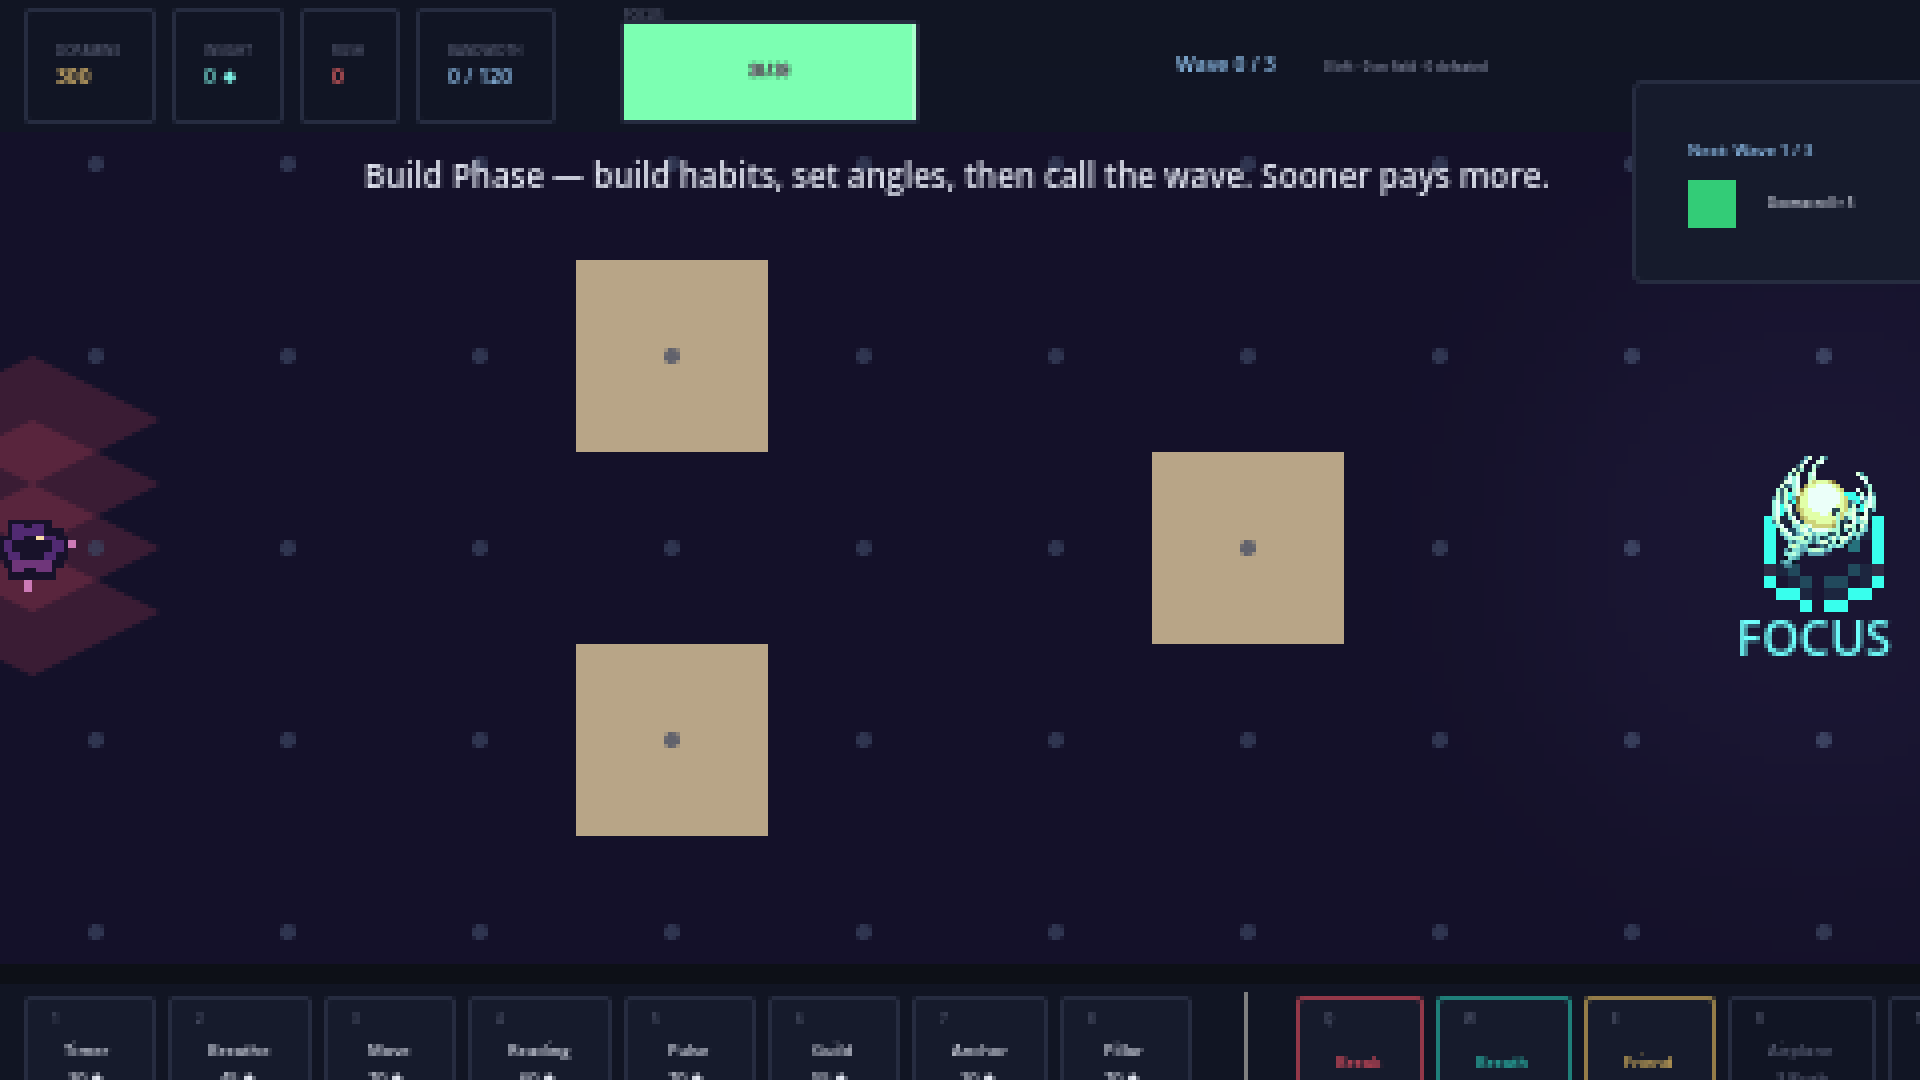
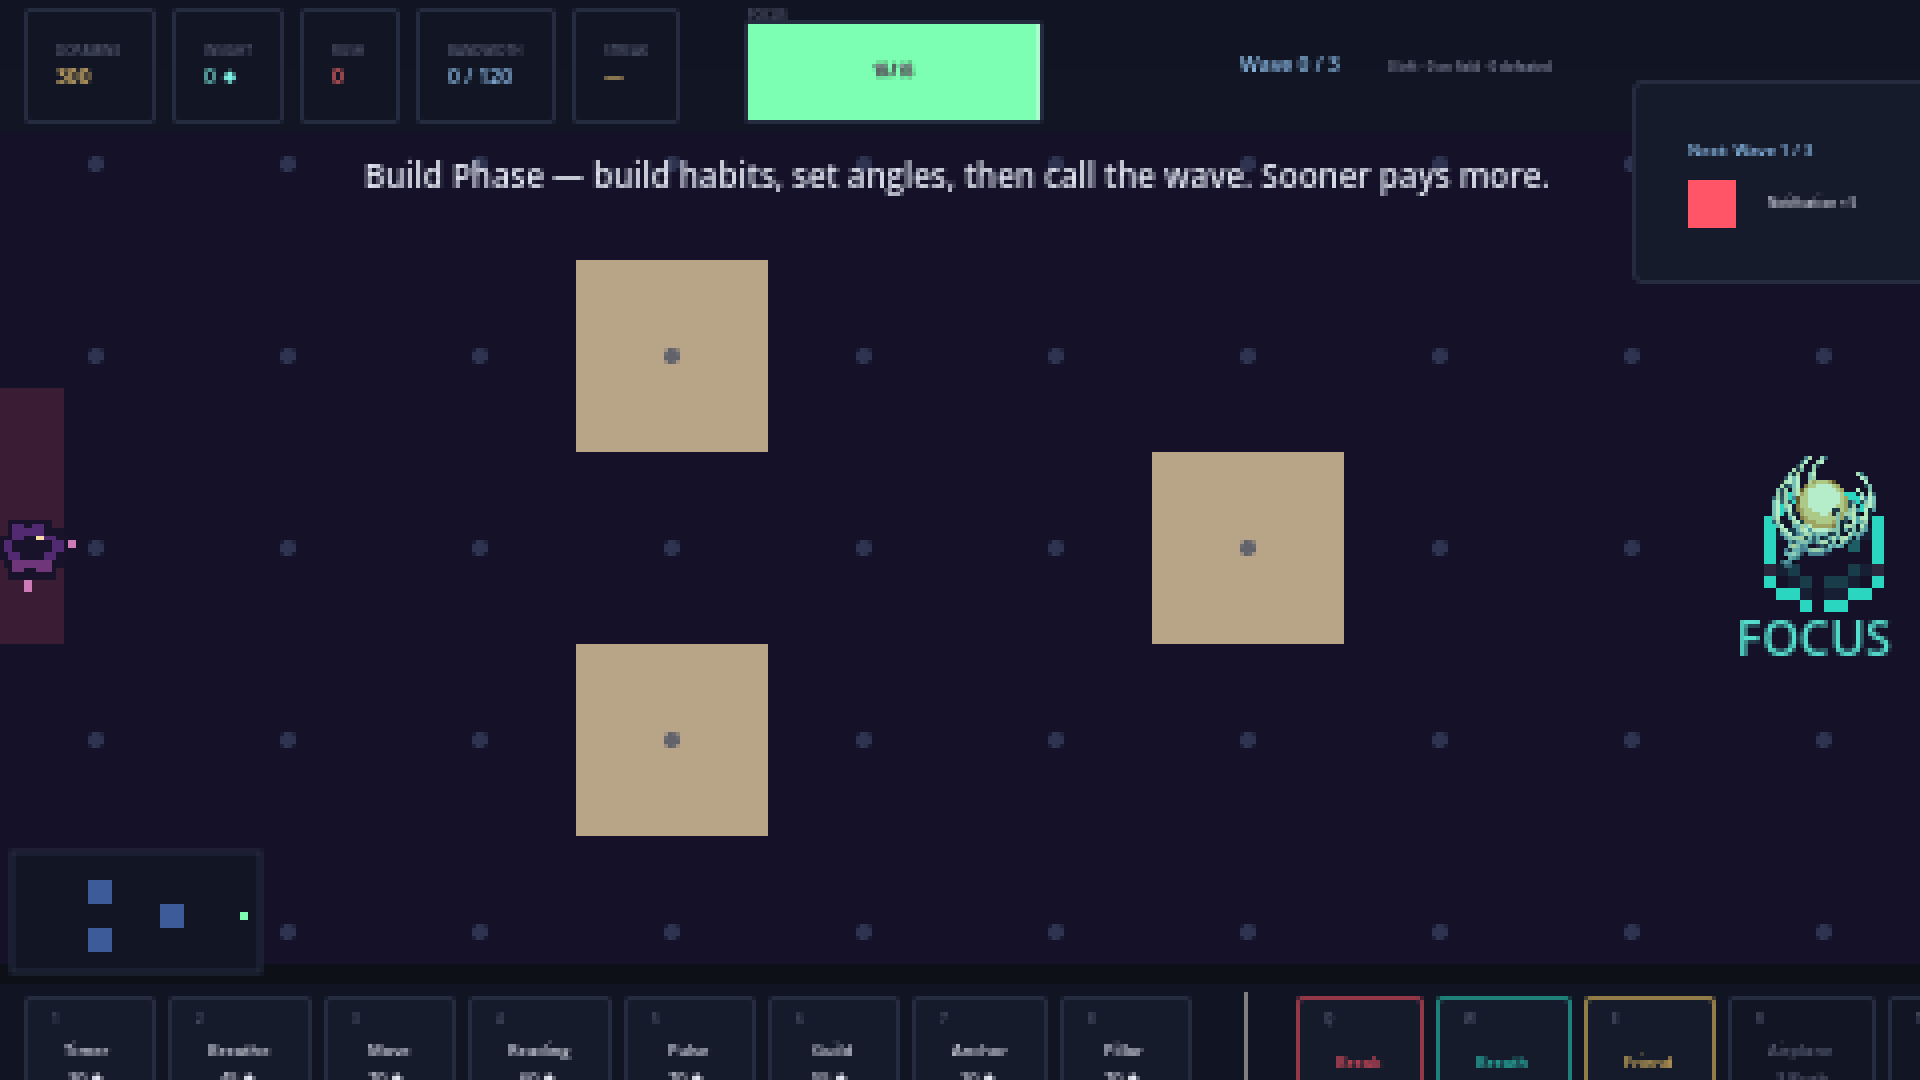
feat(ui): P12 -- minimap, with its one rule testable without reading pixels
The rule a minimap must not break is that it may never show more than the
player has already been able to see; draw it over the unexplored map and every
wall placement the fog was supposed to make interesting is readable off the
corner instead.

So the content is a FUNCTION, not just _draw(). terrain_cells() (gated on
is_explored) and live_blips() (gated on is_pos_visible) return exactly what
_draw() is allowed to paint, which lets _test_minimap assert the rule headlessly
instead of reading pixels back through a real renderer, and leaves _draw() no
other source of truth to drift toward.

Terrain is remembered, live bodies are not. Walls stay on the map once seen,
because knowing a place is permanent; distractions appear only where the board
is lit right now, because knowing where something WAS is not knowing where it
is. A minimap that tracked bodies through the dark would hand back the exact
information the fog exists to take away.

_test_minimap, 13 checks: 0 of 153 drawn cells unexplored, while the map shows
only 153 of 420 cells -- that second check is there because a rule that never
bites is not a rule, and "nothing leaked" would also pass a map that draws
nothing. A habit's cone takes it 153 -> 231, selling that habit does not take
the map back, a distraction in the dark is absent and appears only during a
Moment of Clarity, and with fog off the whole 420-cell board is shown rather
than none of it.
[…]

diff --git a/PROGRESS.md b/PROGRESS.md
@@ -4497,3 +4497,67 @@ Držím tu hranici, kterou jsem si u plné autorizace vytyčil. Zapsáno do `BLO
 - Soubory: `scripts/game.gd`, `scripts/modifier_manager.gd`,
   `scripts/_test_fog_modifiers.gd`(`.uid`), `scenes/_test_fog_modifiers.tscn`,
   `BLOCKED.md`, `PATHFINDING.MD` (Status), tento zápis.
+
+## 2026-09-02 — P12 hotovo: minimapa, a její pravidlo je testovatelné bez pixelů
+
+### Návrh: obsah je funkce, ne `_draw()`
+
+`scripts/minimap.gd` (`class_name Minimap extends Control`) má dvě veřejné funkce, které
+vracejí **přesně to, co `_draw()` smí namalovat**:
+
+- `terrain_cells()` — buňky terénu, gatované na `is_explored()`
+- `live_blips()` — pozice živých distrakcí, gatované na `is_pos_visible()`
+
+Proč ne prostě `_draw()`: jeho výstup se nedá assertovat. Test by musel číst pixely, což
+potřebuje skutečný renderer (přesně ta past, kterou má `_test_shadow_occlusion`) a stejně
+by dokázal jen něco o barvách. Takhle `_test_minimap` kontroluje pravidlo přímo
+a headlessně, a `_draw()` se od ověřeného nemůže rozejít, protože jiný zdroj pravdy nemá.
+
+### Terén se pamatuje, živá těla ne — a v tom je pointa
+
+Zdi na mapě zůstanou, jakmile je jednou vidíš (`is_explored`): znát místo je trvalé.
+Distrakce se ukážou **jen tam, kde deska svítí právě teď** (`is_pos_visible`): vědět, kde
+něco *bylo*, není vědět, kde to je. Minimapa, která sleduje těla skrz tmu, by vracela
+přesně tu informaci, kvůli které mlha existuje.
+
+### `_test_minimap` — 13 kontrol, všechny zelené
+
+| kontrola | naměřeno |
+|---|---|
+| žádná vykreslená buňka není neprozkoumaná | **0 ze 153 uniklo** |
+| a pravidlo opravdu něco zadržuje | **153 ze 420** buněk ukázaných |
+| vzdálený neprozkoumaný roh se nekreslí | ok |
+| kužel habitu přidá na mapu novou půdu | 153 → **231** buněk |
+| prodej habitu mapu **neubere** | 231 → 231 |
+| distrakce stojící ve tmě na mapě není | 0 blipů |
+| objeví se během Moment of Clarity | 1 blip |
+| a zmizí, jakmile se mlha zavře | 0 blipů |
+| s vypnutou mlhou je vidět celá deska, ne žádná | **420 ze 420** |
+
+Druhá řádka je tam schválně: pravidlo, které nikdy nekousne, není pravidlo. Bez ní by
+„nic neuniklo" prošlo i mapě, která nekreslí vůbec nic.
+
+Fixture si mlhu **zapíná sama** a widget si **najde v běžícím stromu hry**, ne že by si
+vyrobila vlastní — kontroluje se to, co hra opravdu postavila a zapojila.
+
+### Layout jsem opravil podle snímku, ne od stolu
+
+První verze kotvila na spodní okraj plátna a **celá mapa skončila uvnitř build lišty** —
+vidět na `.dev/screenshots/p_hudrescale_gameplay.png`. Posunuto nad lištu, a odsazení se
+počítá z `Game._HUD_BOTTOM_H`, ne z opsaného čísla, takže posun lišty posune i mapu.
+Nový snímek přiložen (`_shot_hud_rescale`): mapa sedí vlevo dole nad lištou, tři zdi modře,
+jádro zeleně u pravého okraje.
+
+**Vzhled neposuzuji** — velikost (2 px na buňku, 60×28 na plátně 480×270), pozice a barvy
+z `UI` palety jsou konzervativní první průchod. Kdyby to mělo být jinde, větší, nebo
+jinak barevné, je to pár konstant v `minimap.gd`.
+
+### Ověření
+
+- `_test_minimap`: **ALL PASS** (13 kontrol).
+- `./verify.sh` (s displejem): **44 pass, 0 fail, 0 skip, 3 known-broken, 0 flaky,
+  0 no-display.**
+- Soubory: `scripts/minimap.gd`(`.uid`), `scripts/_test_minimap.gd`(`.uid`),
+  `scenes/_test_minimap.tscn`, `scripts/game.gd` (`_build_minimap()`),
+  `.dev/screenshots/p_hudrescale_*.png` (přegenerované),
+  `PATHFINDING.MD` (Status), tento zápis.

diff --git a/PATHFINDING.MD b/PATHFINDING.MD
@@ -1160,7 +1160,7 @@ a je to původní brána P10 (čekají čtyři varianty z P9). Viz `BLOCKED.md`.
 ## P12 — minimapa
 Model: sonnet
 Needs-me: no
-Status: todo
+Status: done
 
 Nutná, jakmile je P10 zapnuté — bez ní hráč nemůže plánovat a fog se změní
 ve frustraci.
@@ -1168,6 +1168,26 @@ ve frustraci.
 Ukazuje `explored` terén, **ne jednotky**.
 
 Hotovo když: test ověří, že minimapa nikdy neukáže víc, než co je v `explored`.
+
+**Hotovo 2026-09-02.** `scripts/minimap.gd` (`class_name Minimap`), zapojená přes
+`Game._build_minimap()`. Obsah je **funkce, ne `_draw()`**: `terrain_cells()` (gatované na
+`is_explored()`) a `live_blips()` (gatované na `is_pos_visible()`) vracejí přesně to, co
+`_draw()` smí namalovat — takže se pravidlo dá assertovat headlessně, bez čtení pixelů,
+a kreslení se od ověřeného nemůže rozejít.
+
+**Terén se pamatuje, živá těla ne.** Zdi zůstanou po prvním spatření; distrakce se ukážou
+jen tam, kde deska svítí právě teď. Mapa sledující těla skrz tmu by vracela přesně tu
+informaci, kvůli které mlha existuje.
+
+`_test_minimap` (13 kontrol, zelené): **0 ze 153** vykreslených buněk je neprozkoumaných,
+a mapa přitom ukazuje jen **153 ze 420** buněk (pravidlo, které nekousne, není pravidlo);
+kužel habitu přidá 153 → **231**, prodej habitu mapu **neubere**; distrakce ve tmě 0 blipů,
+během Moment of Clarity 1, po zavření mlhy zase 0; s vypnutou mlhou **420 ze 420**.
+
+Layout opraven podle snímku, ne od stolu: první verze kotvila na spodní okraj plátna
+a celá mapa skončila uvnitř build lišty. Odsazení se teď počítá z `Game._HUD_BOTTOM_H`.
+**Vzhled neposuzuji** — 2 px na buňku, vlevo dole, barvy z `UI` palety je konzervativní
+první průchod; snímek v `.dev/screenshots/p_hudrescale_gameplay.png`.
 
 ---
 
